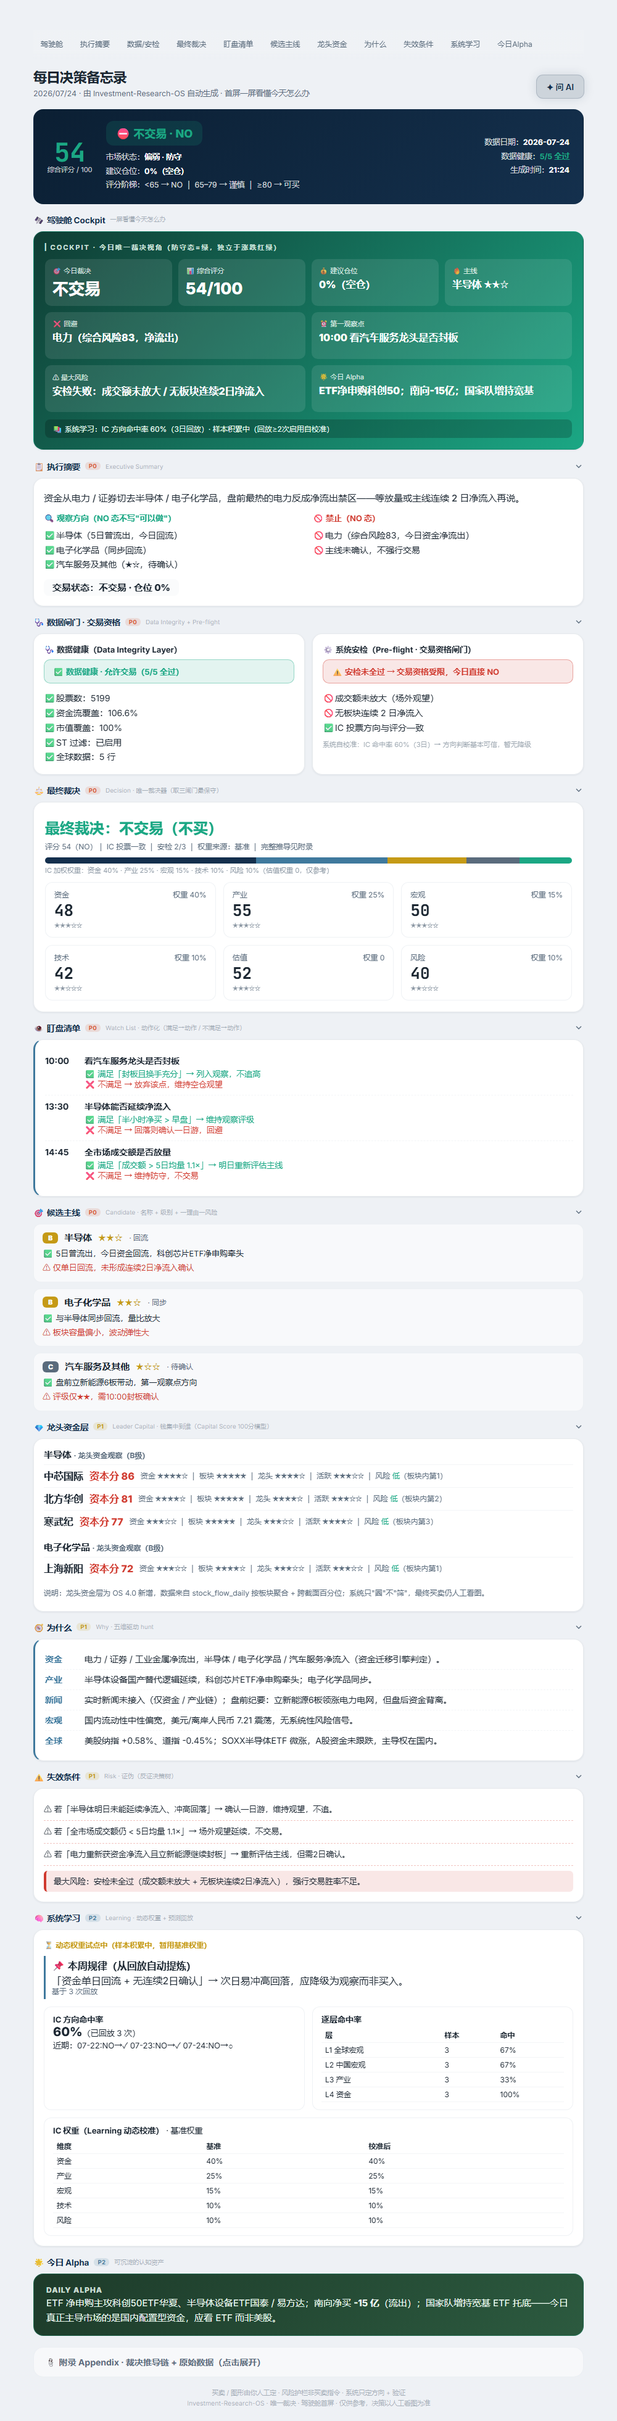
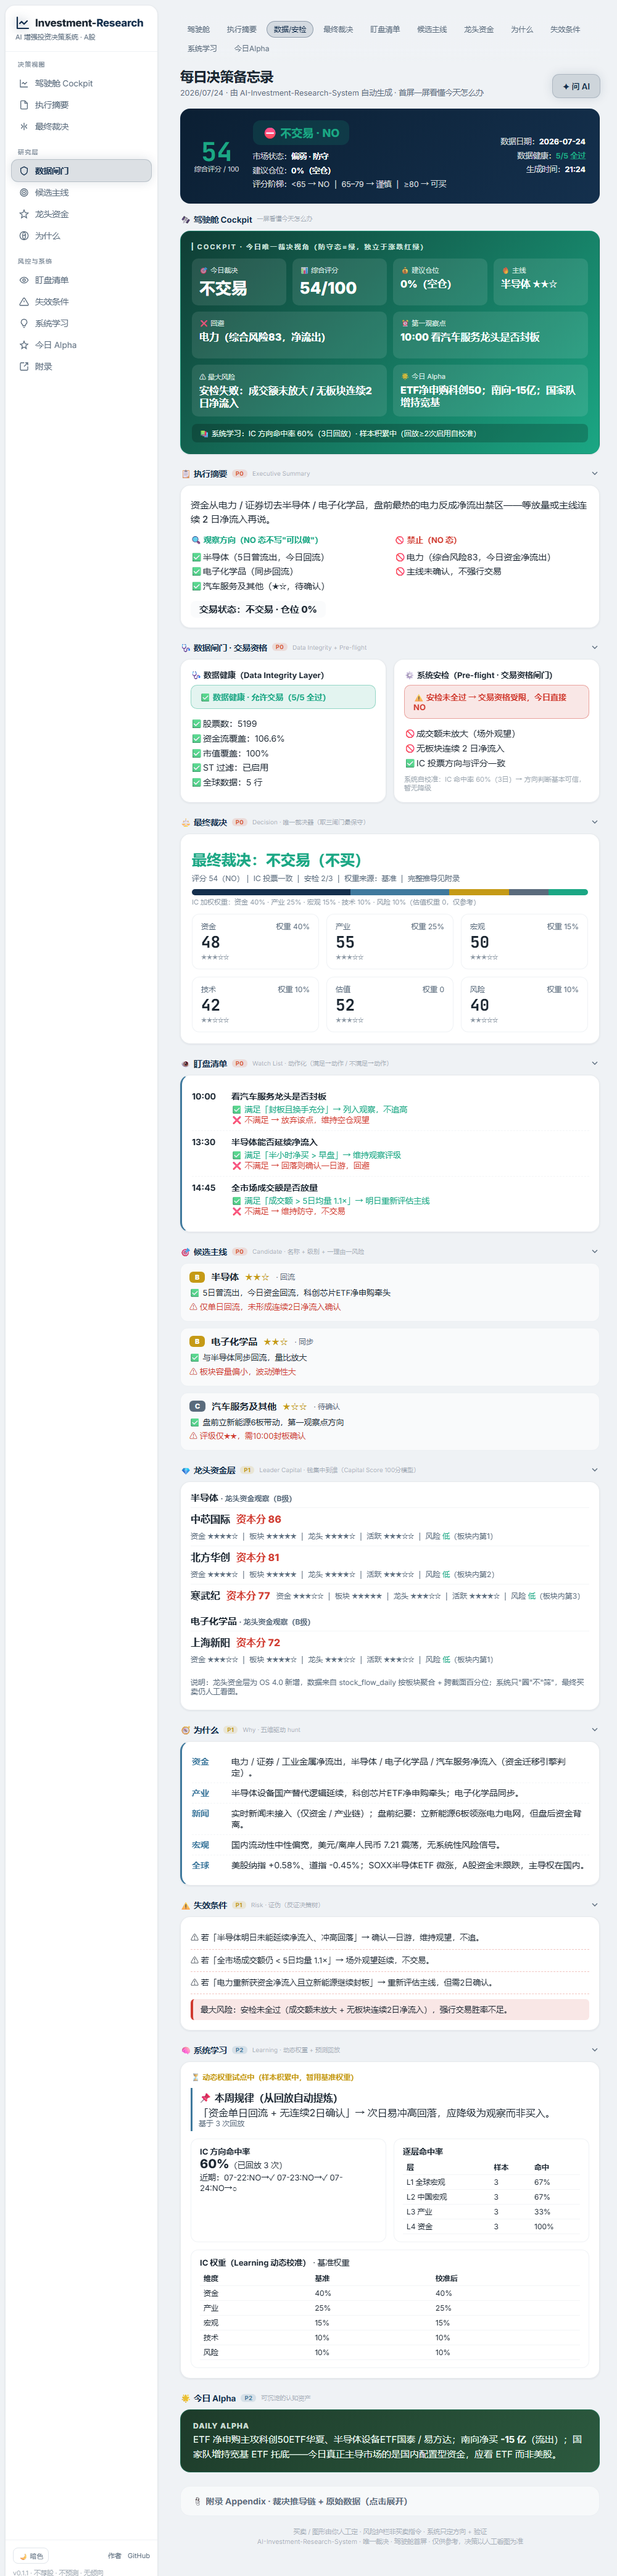
rename repo to AI-Investment-Research-System (v0.1 framework stage); add research-framework whitepaper; refresh screenshot

diff --git a/docs/research-framework.md b/docs/research-framework.md
@@ -1,0 +1,173 @@
+# AI-Investment-Research-System — Research Framework Whitepaper (v0.1)
+
+> An AI-augmented investment research framework — currently a research **system**, evolving toward a personal investment **research operating system**.
+
+This document is the umbrella whitepaper for the repository. It ties together the philosophy, the daily discipline, the architecture, and the trajectory from *System* (today) to *OS* (endgame), so a reader understands the **system** before the **code**.
+
+For deeper detail, see [`investment-philosophy.md`](investment-philosophy.md), [`architecture.md`](architecture.md), [`design-principles.md`](design-principles.md), and [`roadmap.md`](roadmap.md).
+
+---
+
+## 0. Why this document exists
+
+Most "AI investing" projects collapse to a single line:
+
+```
+data → LLM → buy / sell
+```
+
+That line is a black box, and it is a lie about how investing actually works. This repository refuses it.
+
+What we built is not a predictor and not a trader. It is a **research framework** — a repeatable, auditable daily process that turns messy market data into a small number of well-evidenced questions a human can answer by looking at a chart.
+
+This whitepaper is the "what and why". The code is the "how".
+
+---
+
+## 1. The core stance
+
+Four beliefs separate *research* from *prediction*:
+
+```
+Research   >  Prediction      研究 > 预测
+Systems    >  Opinions        系统 > 观点
+Long-term  >  Short-term      长期 > 短期
+Human      >  Black box       人 > 黑盒
+```
+
+The investor's edge comes from **better questions and a repeatable process**, not from a model that claims to "predict the market".
+
+> **Human-in-the-loop, by design.** The methodology is *板块 > 龙头 > 资金 > 图形* (Sector → Leader → Capital → Chart). The system only *circles the main themes → lists candidates → attaches the data*. The final buy/sell is always a human decision made by reading the chart.
+
+---
+
+## 2. The daily discipline (the moat)
+
+Every trading day the system runs one discipline, in three steps:
+
+```
+判环境   →   选方向   →   定标的
+(Judge the environment)  (Pick the direction)  (Identify the candidate)
+```
+
+And it answers exactly three questions:
+
+> **今天有没有钱？钱去哪？我怎么办？**
+> *(Is there money in the market? Where is it going? What should I do?)*
+
+If the reader finishes the daily memo and does **not** know what to look at tomorrow, the system failed. Everything else exists to serve these three questions.
+
+---
+
+## 3. Methodology red lines
+
+These are non-negotiable and are enforced in the code and in the output:
+
+- **板块 > 龙头 > 资金 > 图形.** Breadth and rotation first; then the leaders inside the winning sectors; then where capital is actually flowing; only then the chart entry. The chart never leads the thesis.
+- **Candidates are *circled*, never *filtered* by hard rules.** The system lists candidates and attaches data. It does **not** silently drop names with mechanical filters. Final selection is human.
+- **Forbidden fields.** Individual `amount`, `ma20`, `ma60`, and any derivatives of them are **not** used to filter candidates. (Sector scoring is the exception — see below.)
+- **Sector scoring uses two equal dimensions.** Net capital inflow **and** turnover must both be considered; neither may be dropped. A sector with inflow but no turnover, or turnover with no inflow, is not a main theme.
+- **The system never places an order.** Not now, not in the OS endgame. The committee and CIO produce research and a recommended stance; the human executes.
+
+---
+
+## 4. The framework in one picture — eight layers
+
+Market data flows in; research layers reason; an Investment Committee votes; a CIO agent synthesizes the memo; a Learning Center replays past calls to self-correct.
+
+```
+L0  Narrative           盘前纪要叙事层（人工/外部输入）
+L1  Global Macro        全球宏观流动性 / 风险偏好
+L2  China Macro         政策 / 流动性 / 情绪 regime
+L3  Industry Trend      产业趋势 / 周期 / 技术革命
+L3.5 Industry Chain     产业链上/下游下钻（drill-down）
+L4  Sector Rotation     板块轮动 / 资金迁移链
+L5  Leader System       龙头体系 / 四龙头
+L6  Execution           买点 / 仓位区间（人工看图）
+L7  Risk Control        风险预算 → 仓位上限
+L8  Learning            预测回放 / 命中率 / 权重自校准
+```
+
+> **Each layer contributes evidence to the final CIO decision memo** — the architecture is readable and auditable end to end. See [`architecture.md`](architecture.md) for the full L0–L8 + L3.5 mapping, the IC/CIO contract, and the data-integrity gate.
+
+---
+
+## 5. The Investment Committee — the differentiator
+
+Between the research layers and the final memo sits a **structured Investment Committee**. Multiple dimensions debate, then vote with fixed weights:
+
+| Dimension | Weight | What it answers |
+|-----------|:------:|-----------------|
+| 💰 Capital Flow (资金) | **40%** | Where is money *actually* moving? |
+| 🏭 Industry (产业) | **25%** | Which sectors have real catalysts? |
+| 🌐 Macro (宏观) | **15%** | Headwind or tailwind for risk assets? |
+| 📈 Technical (技术) | **10%** | Is the entry timing confirmed? |
+| 🛡 Risk (风险) | **10%** | What is the position budget / guardrail? |
+
+The weighted score drives a single decision: `can_buy / direction / position_pct / debate / verdict`. The CIO agent only synthesizes **after** the committee reaches a verdict — never before.
+
+> **Trust guardrail:** the committee and CIO produce research and a recommended stance. The final buy/sell is always a human reading the chart. See [`design-principles.md`](design-principles.md).
+
+---
+
+## 6. The Learning Loop
+
+The system replays its own past calls:
+
+- Per-dimension hit-rate (e.g. did Capital Flow actually lead?).
+- Suggested weight adjustments, fed back into the committee.
+- Empirical regularities, each with a sample count `n` — **honest, never fabricated**.
+
+This is what makes it a *framework* rather than a one-shot script: it is supposed to get better at self-calibration over time. See the "系统学习" block of the daily memo.
+
+---
+
+## 7. What ships in v0.1 (the "system" stage)
+
+This repository today is the **research system**: a local-first stack that runs the daily discipline end to end.
+
+| Module | Responsibility |
+|--------|----------------|
+| `backend/daily_collect.py` | Daily data collection: TDX quotes → Eastmoney fallback → global alignment |
+| `backend/tech_fill.py` | Technical field backfill (MA20/60, volume ratio, breakout zone) |
+| `backend/data_health.py` | 5-point data integrity gate → `trade_allowed` |
+| `backend/committee/investment_committee.py` | Weighted IC voting → the single decision source |
+| `backend/brain/cio_agent.py` | CIO synthesizes the daily memo (`produce()`) |
+| `backend/notify/os2_report.py` | Compressed 9-block daily memo (HTML / WeChat-compatible) |
+| `backend/learning_center.py` | Replays predictions, computes hit-rate, self-calibrates weights |
+| `backend/panqian_parser.py` | Ingests pre-market briefing notes into the narrative layer |
+
+- **Local-first.** Python 3.13 · FastAPI · SQLite · React 19 · Vite · TypeScript.
+- **No database shipped.** The ~5 GB local `vibe_research.db` is git-ignored; generate your own with `init_db()`.
+- **No secrets committed.** `.env`, `.workbuddy/`, `backend/output/`, and personal notes are git-ignored.
+- **Degrades gracefully.** The AI reasoning layers call an LLM via a key you supply; with no key, it falls back to rule-based scoring.
+
+---
+
+## 8. From System to OS (the trajectory)
+
+The repository is named **`AI-Investment-Research-System`** at the current v0.1 stage on purpose.
+
+- **Now (System):** a research framework + a running daily pipeline + a methodology. Honest about its scope.
+- **Later (OS):** the full *investment research operating system* — data layer + AI agent layer + workflow layer + research-tool layer + decision layer + UI + automation — the kind of closed loop a Bloomberg Terminal / TradingView / Palantir Foundry represents at scale.
+
+We name it *System* today so the expectation matches the delivery. When the ecosystem matures, the long-term vision is **`Investment-Research-OS`**. See [`roadmap.md`](roadmap.md) for the staged plan and the future sibling repositories.
+
+---
+
+## 9. How to use / extend
+
+1. Clone, `pip install -r requirements.txt`, `init_db()` to build an empty local DB.
+2. Run `daily_collect.py` → `tech_fill.py` → `run_daily.py --skip-step1 --memo-only` to produce the daily memo.
+3. Read the memo. Let the system circle the themes; you make the call.
+4. Extend a layer (e.g. a new L3.5 chain drill-down, or a tighter L7 position rule) and feed the result back through the learning loop.
+
+Full steps in [`../README.md`](../README.md) → Quick Start.
+
+---
+
+## 10. Status
+
+**v0.1 — a real, running system, open-sourced.** Not a 1000-line demo. Methodology is the moat; code is copyable, the *判环境 / 选方向 / 定标的* process and its long-term iteration are not.
+
+> Research > Prediction. Systems > Opinions. Long-term > Short-term. The edge is the process, not the algorithm — and a process is worth sharing.

diff --git a/README.md b/README.md
@@ -1,8 +1,8 @@
 # Xiao Liu Research Lab
 
-## AI-Augmented Investment Research Operating System
+## AI-Augmented Investment Research System
 
-An open-source personal investment research system exploring how AI can enhance human decision-making.
+An open-source AI-augmented investment research framework — currently a research **system**, evolving toward a personal investment **research operating system**.
 
 > 一个金融人的 AI 时代探索：如何利用人工智能增强投资研究、认知与决策能力。
 
@@ -10,7 +10,7 @@ An open-source personal investment research system exploring how AI can enhance 
 
 ## What is this?
 
-This repository is a **personal investment research operating system** — a self-contained local stack that turns messy market data into a structured, auditable daily research workflow.
+This repository is a **personal investment research system** (the v0.1 framework stage) — a self-contained local stack that turns messy market data into a structured, auditable daily research workflow. The long-term vision is *Investment-Research-OS*; see [Roadmap](docs/roadmap.md).
 
 It is built around a repeatable daily discipline:
 
@@ -21,7 +21,7 @@ The system does **not** predict the market, and it is **not** an automated tradi
 ```
 ✅ This IS                                  ❌ This is NOT
 ─────────────────────────────────────────   ─────────────────────────────────────────
-A structured daily research operating system  A trading bot / auto-trader
+A structured daily research system        A trading bot / auto-trader
 An 8-layer decision architecture you can       A black-box "buy/sell" signal generator
   read, audit, and extend                      Financial advice or a money product
 A learning system that replays its own past    A hosted SaaS or paid service
@@ -182,7 +182,7 @@ The compressed, end-to-end decision report — cockpit → verdict → watchlist
 ## Project Structure / 目录结构
 
 ```
-Investment-Research-OS/
+AI-Investment-Research-System/
 ├── backend/                    # Python backend (FastAPI + SQLite)
 │   ├── app.py                  #   FastAPI entrypoint
 │   ├── run_daily.py            #   每日决策流水线入口 (--skip-step1 --memo-only)

diff --git a/docs/roadmap.md b/docs/roadmap.md
@@ -1,6 +1,6 @@
 # Roadmap / 路线图
 
-Status of the flagship repository `Investment-Research-OS`, and where it fits in the broader `Xiao Liu Research Lab` open-source plan.
+Status of the flagship repository `AI-Investment-Research-System` (currently the v0.1 research-system stage; the long-term vision is `Investment-Research-OS`), and where it fits in the broader `Xiao Liu Research Lab` open-source plan.
 
 ---
 
@@ -30,7 +30,7 @@ The flagship is intentionally narrow. Adjacent capabilities will live in their o
 
 | Repo | Purpose |
 |------|---------|
-| `Investment-Research-OS` | The core decision operating system (this repo) |
+| `AI-Investment-Research-System` | The core decision research system (this repo); evolves into `Investment-Research-OS` |
 | `Market-Intelligence-Agent` | Automated news / macro / flow / sentiment intelligence |
 | `Investment-Knowledge-Base` | Obsidian / RAG / LLM-connected knowledge base |
 | `AI-Research-Workflow` | Reusable AI research workflows and prompt systems |
